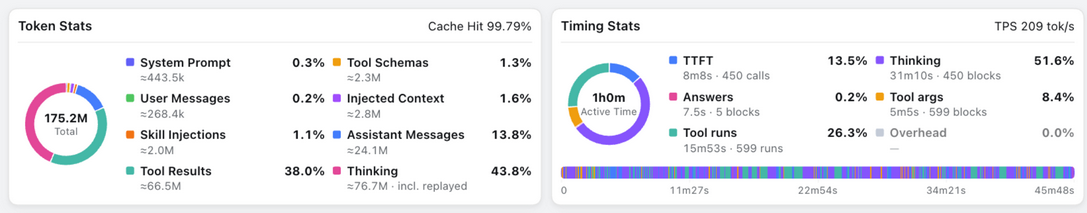
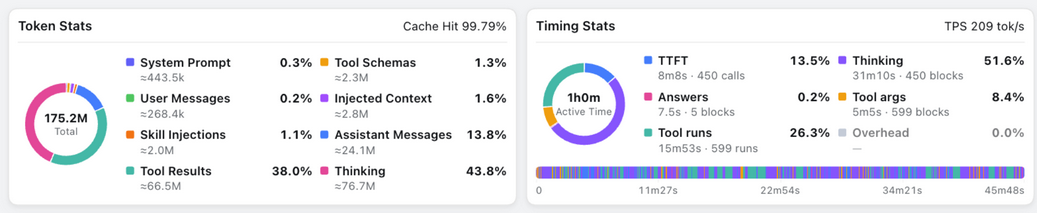
fix(tokens): drop the thinking replay note
The thinking row now shows only its estimated count, like every other slice; the unused locale key is removed and the docs screenshot is regenerated.

diff --git a/tests/client/components/statsTokens.spec.ts b/tests/client/components/statsTokens.spec.ts
@@ -60,11 +60,11 @@ describe('StatsTokens', () => {
     assert.equal(query(m.container, '.lc-donut-center b').textContent, '300')
     // Assistant anchored at 100 splits 60/40; the 100 output keeps 40 thinking and 60 assistant.
     assert.deepEqual(rowOf(m.container, 1), { pct: '33.3%', label: 'Assistant Messages', count: '≈100' })
-    assert.deepEqual(rowOf(m.container, 2), { pct: '33.3%', label: 'Thinking', count: '≈100 · incl. replayed' })
+    assert.deepEqual(rowOf(m.container, 2), { pct: '33.3%', label: 'Thinking', count: '≈100' })
     await m.unmount()
 
     const zh = await mount(h(makeStatsTokens(makeKit('zh'), Donut), { usage, current, breakdown: null, generatedReasoning: 40 }))
-    assert.deepEqual(rowOf(zh.container, 2), { pct: '33.3%', label: '思考', count: '≈100 · 含上下文重放' })
+    assert.deepEqual(rowOf(zh.container, 2), { pct: '33.3%', label: '思考', count: '≈100' })
     await zh.unmount()
   })
 
@@ -107,7 +107,7 @@ describe('StatsTokens', () => {
         assert.equal(row.querySelector('.lc-sl-pct')?.textContent, '—')
       }
       const counts = queryAll(m.container, '.lc-sl-sub').map(n => n.textContent)
-      assert.deepEqual(counts, ['≈0', '≈0', '≈0', '≈0', '≈0', '≈0', '≈0', '≈0 · incl. replayed'])
+      assert.deepEqual(counts, ['≈0', '≈0', '≈0', '≈0', '≈0', '≈0', '≈0', '≈0'])
       assert.ok(query(m.container, '.lc-donut-track'), 'an all-zero ring draws the neutral track')
       await m.unmount()
     }

diff --git a/tests/client/components/overviewTokens.spec.ts b/tests/client/components/overviewTokens.spec.ts
@@ -43,7 +43,7 @@ describe('OverviewTokens', () => {
       { pct: '1.4%', label: 'Skill Injections', count: '≈3' },
       { pct: '30.5%', label: 'Assistant Messages', count: '≈64' },
       { pct: '15.2%', label: 'Tool Results', count: '≈32' },
-      { pct: '19.0%', label: 'Thinking', count: '≈40 · incl. replayed' },
+      { pct: '19.0%', label: 'Thinking', count: '≈40' },
     ]
     expected.forEach((row, i) => assert.deepEqual(rowOf(m.container, i), row))
     await m.unmount()
@@ -62,7 +62,7 @@ describe('OverviewTokens', () => {
     assert.equal(queryAll(sparseMount.container, '.lc-sl-row').length, 3)
     assert.deepEqual(rowOf(sparseMount.container, 0), { pct: '68.2%', label: 'System Prompt', count: '≈300' })
     assert.deepEqual(rowOf(sparseMount.container, 1), { pct: '20.5%', label: 'User Messages', count: '≈90' })
-    assert.deepEqual(rowOf(sparseMount.container, 2), { pct: '11.4%', label: 'Thinking', count: '≈50 · incl. replayed' })
+    assert.deepEqual(rowOf(sparseMount.container, 2), { pct: '11.4%', label: 'Thinking', count: '≈50' })
     await sparseMount.unmount()
   })
 

diff --git a/src/client/components/tokenRows.ts b/src/client/components/tokenRows.ts
@@ -9,6 +9,6 @@ export function tokenRowsOf(kit: ViewKit, parts: readonly PartsPart[], total: nu
     color: p.color,
     label: p.key === 'thinking' ? t('tokens.thinking') : catLabel(p.key),
     pct: fmtShare(p.value, total),
-    count: p.key === 'thinking' ? `≈${fmt(p.value)} · ${t('tokens.thinkingNote')}` : '≈' + fmt(p.value),
+    count: '≈' + fmt(p.value),
   }))
 }

diff --git a/src/client/i18nZh.ts b/src/client/i18nZh.ts
@@ -90,7 +90,6 @@ export const DICT_ZH = {
   'tokens.title': 'Token 统计',
   'tokens.total': '总用量',
   'tokens.thinking': '思考',
-  'tokens.thinkingNote': '含上下文重放',
   'plugin.title': '插件信息',
   'plugin.hint': 'The best DSH context plugin ⭐',
   'plugin.name': '插件',

diff --git a/src/client/i18nEn.ts b/src/client/i18nEn.ts
@@ -93,7 +93,6 @@ export const DICT_EN = {
   'tokens.title': 'Token Stats',
   'tokens.total': 'Total',
   'tokens.thinking': 'Thinking',
-  'tokens.thinkingNote': 'incl. replayed',
   'plugin.title': 'Plugin Info',
   'plugin.hint': 'The best DSH context plugin ⭐',
   'plugin.name': 'Plugin',
